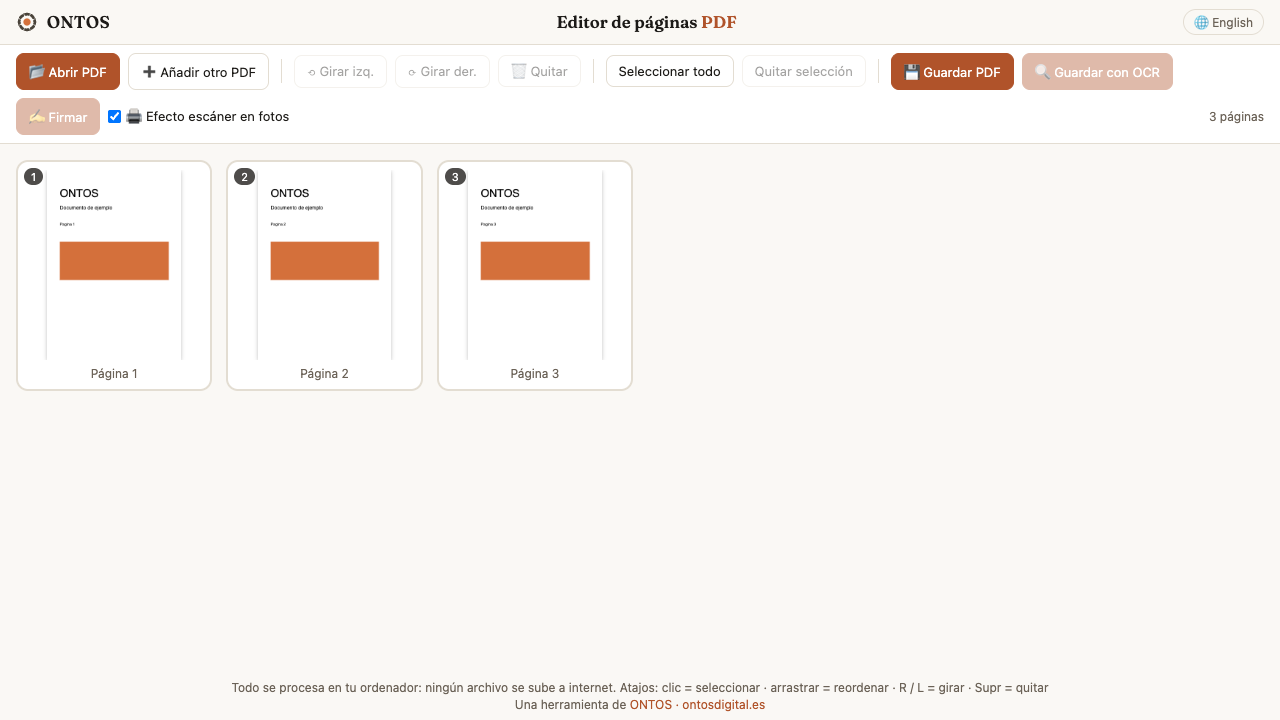
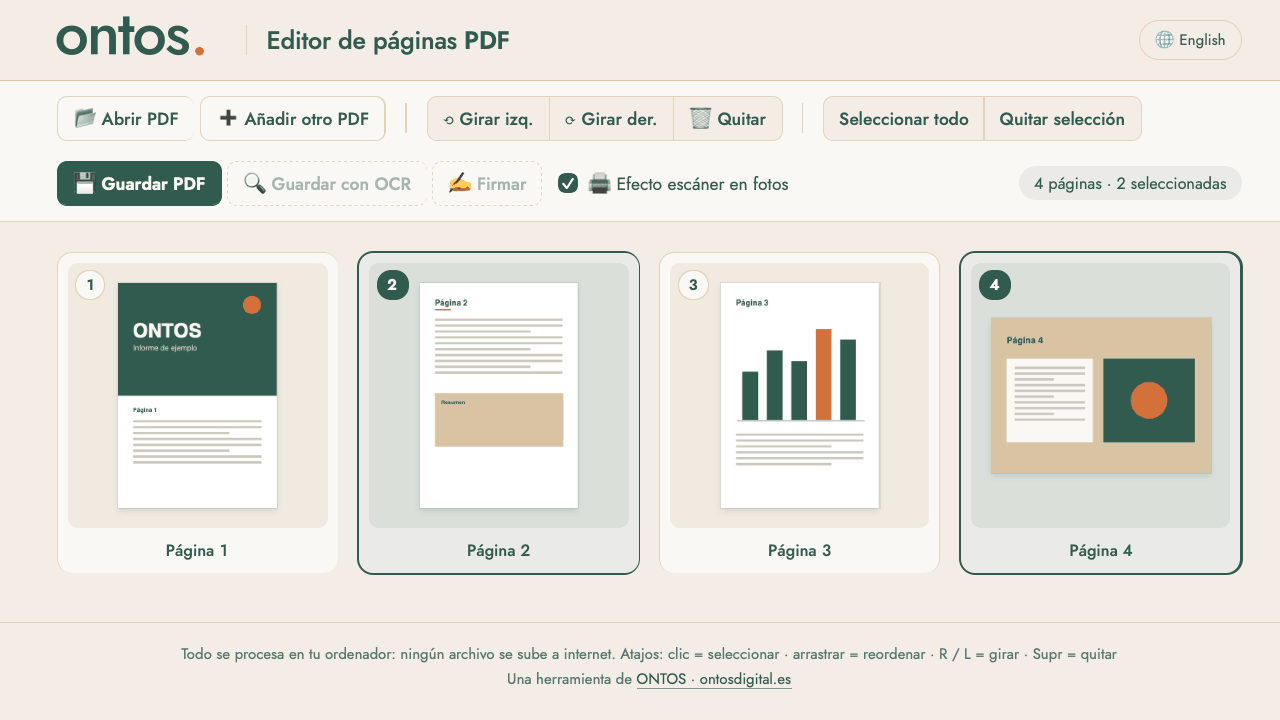
feat: editor PDF más cuidado — cabecera de aplicación, barra agrupada con acción principal, páginas con aire, móvil usable; captura nueva de la tarjeta

diff --git a/editor-pdf/index.html b/editor-pdf/index.html
@@ -44,7 +44,6 @@
     background: var(--panel); border-bottom: 1px solid var(--border);
     padding: 8px 16px; display: flex; align-items: center; gap: 8px; flex-wrap: wrap;
   }
-  .sep { width: 1px; height: 24px; background: var(--border); margin: 0 4px; }
   button {
     font: inherit; font-size: 13px; padding: 7px 12px; border-radius: 8px;
     border: 1px solid var(--border); background: var(--panel); color: var(--text);
@@ -156,10 +155,8 @@
     #signSide input[type=text], #signSide select { font-size: 16px; }
     button { min-height: 44px; }
   }
-  @media (prefers-color-scheme: dark) {
-    button.primary { color: #181410; }
-    button.primary:hover:not(:disabled) { background: var(--realce); border-color: var(--realce); }
-  }
+  /* Sin bloque oscuro propio: marca-es.css fija la superficie clara del manual en ambos
+     esquemas, y el texto oscuro sobre el verde de acción dejaba el botón ilegible. */
   .pie-marca { margin-top: 2px; }
   .pie-marca a { color: var(--accent); text-decoration: none; }
   .pie-marca a:hover { text-decoration: underline; }
@@ -170,6 +167,147 @@
 <script defer src="../brand/canon/movimiento-data.js"></script>
 <script defer src="../brand/canon/movimiento.js"></script>
 <!-- /MARCA:estilos -->
+<style>
+  /* Pulido de la interfaz (3-oct-2026): va después de marca-es.css para ganarle en cascada sin
+     !important. Solo tokens del canon: verde de acción, arena de línea, hueso de panel; la teja
+     queda en el símbolo. Jerarquía: una acción principal (Abrir sin documento, Guardar con él),
+     secundarias agrupadas, versión de escritorio deshabilitada pero legible. */
+  html[data-ontos-web][data-web-page="editor-pdf"] {
+    --ep-linea: color-mix(in srgb, var(--ds-brand-arena) 70%, var(--ds-support-hueso));
+    --ep-mesa: color-mix(in srgb, var(--ds-brand-arena) 26%, var(--ds-support-hueso));
+    --ep-tinte: color-mix(in srgb, var(--ds-brand-verde) 8%, var(--ds-support-hueso));
+    --ep-suave: color-mix(in srgb, var(--ds-brand-verde) 62%, var(--ds-support-hueso));
+  }
+  /* Cabecera: título de herramienta a escala de aplicación, junto a la marca. */
+  #top .barra .marca { margin-right: 0; }
+  #top .titulo-app {
+    font-size: var(--ds-type-h2); line-height: 1.2; font-weight: 500; letter-spacing: -.01em;
+    margin: 0 auto 0 0; padding-left: var(--ds-space-4);
+    border-left: 1px solid var(--ep-linea); white-space: nowrap;
+  }
+  #top .titulo-app span { font-weight: 600; }
+  #top #btnLang { margin-left: 0; min-height: 32px; padding: 0 var(--ds-space-3); border-color: var(--ep-linea); color: var(--texto); }
+
+  /* Barra de herramientas */
+  #top #toolbar {
+    gap: var(--ds-space-2) var(--ds-space-3); padding-top: var(--ds-space-3); padding-bottom: var(--ds-space-3);
+    background: var(--ds-support-hueso); border-bottom: 1px solid var(--ep-linea);
+  }
+  /* Grupos sin envoltorio (el test de conservación compara la estructura): los separadores
+     marcan el corte y girar/quitar y seleccionar se pegan como controles segmentados. */
+  #toolbar .sep { width: 1px; height: 24px; margin: 0 var(--ds-space-1); background: var(--ep-linea); }
+  #toolbar :is(#btnAdd, #btnRotR, #btnDel, #btnNone, #btnSaveOcr, #btnSign) { margin-left: calc(var(--ds-space-1) - var(--ds-space-3)); }
+  #toolbar :is(#btnRotR, #btnDel, #btnNone) { margin-left: calc(-1px - var(--ds-space-3)); }
+  /* Hasta 1500 px, guardar abre segunda fila con la opción de escáner y el estado: así la
+     fila no se parte a mitad de grupo. */
+  @media (max-width: 1500px) { #toolbar div.sep:nth-of-type(3) { flex-basis: 100%; height: 0; margin: 0; } }
+  #toolbar button {
+    min-height: 36px; padding: 0 var(--ds-space-3); font-size: 14px; font-weight: 500; line-height: 1;
+    border: 1px solid var(--ep-linea); border-radius: var(--ds-radius-s);
+    background: var(--ds-support-hueso); color: var(--ds-brand-verde);
+    transition: background-color var(--web-motion-fast), border-color var(--web-motion-fast), color var(--web-motion-fast);
+  }
+  #toolbar :is(#btnRotL, #btnRotR, #btnDel, #btnAll, #btnNone) { background: var(--ds-surface-page); border-radius: 0; }
+  #toolbar :is(#btnRotL, #btnAll) { border-radius: var(--ds-radius-s) 0 0 var(--ds-radius-s); }
+  #toolbar :is(#btnDel, #btnNone) { border-radius: 0 var(--ds-radius-s) var(--ds-radius-s) 0; }
+  #toolbar :is(#btnRotL, #btnRotR, #btnDel, #btnAll, #btnNone):focus-visible { position: relative; z-index: 1; }
+  #toolbar button:hover:not(:disabled) { background: var(--ep-tinte); border-color: var(--ep-suave); }
+  #toolbar button:disabled { opacity: 1; color: color-mix(in srgb, var(--ds-brand-verde) 42%, var(--ds-support-hueso)); cursor: not-allowed; }
+  #toolbar #btnDel:hover:not(:disabled) { color: var(--ds-brand-rojo); background: color-mix(in srgb, var(--ds-brand-rojo) 8%, var(--ds-support-hueso)); }
+  /* Acción principal: verde lleno. Sin documento manda Abrir; con documento, Guardar. */
+  #toolbar :is(#btnOpen, #btnSave:not(:disabled)) {
+    background: var(--ds-action); border-color: var(--ds-action); color: var(--ds-on-action); font-weight: 600; box-shadow: none;
+  }
+  #toolbar :is(#btnOpen, #btnSave:not(:disabled)):hover { background: color-mix(in srgb, var(--ds-action) 86%, var(--ds-web-technical-black)); border-color: transparent; color: var(--ds-on-action); box-shadow: none; }
+  #toolbar:has(#btnSave:not(:disabled)) #btnOpen { background: var(--ds-support-hueso); border-color: var(--ep-linea); color: var(--ds-brand-verde); font-weight: 500; }
+  #toolbar:has(#btnSave:not(:disabled)) #btnOpen:hover { background: var(--ep-tinte); border-color: var(--ep-suave); color: var(--ds-brand-verde); }
+  #toolbar #btnSave:disabled { background: transparent; }
+  /* OCR y firma son de la versión de escritorio: discretos, con su explicación en el title. */
+  #toolbar button.escritorio:disabled { background: transparent; border-style: dashed; cursor: help; }
+  #toolbar .opcion-escaner {
+    display: inline-flex; align-items: center; gap: var(--ds-space-2); min-height: 36px;
+    font-size: 14px; color: var(--ds-brand-verde); cursor: pointer;
+  }
+  #toolbar .opcion-escaner input { width: 16px; height: 16px; accent-color: var(--ds-brand-verde); }
+  #top #status { font-size: 13px; color: var(--ds-brand-verde); font-variant-numeric: tabular-nums; }
+  #top #status:not(:empty) { padding: 4px var(--ds-space-3); border-radius: 999px; background: var(--ep-tinte); }
+
+  /* Área de trabajo */
+  main#contenido { padding: var(--ds-space-5) 0 var(--ds-space-6); }
+  main#contenido:focus { outline: none; }
+  #dropzone {
+    min-height: clamp(320px, 58vh, 600px); gap: var(--ds-space-3); padding: var(--ds-space-7) var(--ds-space-5);
+    border: 1.5px dashed var(--ep-suave); border-radius: var(--ds-radius); background: var(--ds-support-hueso);
+    color: var(--ds-brand-verde); transition: background-color var(--web-motion-fast), border-color var(--web-motion-fast);
+  }
+  #dropzone:hover, #dropzone.over { border-color: var(--ds-brand-verde); background: var(--ep-tinte); }
+  #dropzone.over { border-style: solid; outline: none; }
+  #dropzone > span[aria-hidden="true"] { margin-bottom: var(--ds-space-2); }
+  #dropzone strong { font-size: var(--ds-type-h2); font-weight: 600; letter-spacing: -.01em; color: var(--ds-brand-verde); }
+  #dropzone strong + span { max-width: 68ch; font-size: var(--ds-type-body); line-height: 1.65; color: color-mix(in srgb, var(--ds-brand-verde) 82%, var(--ds-support-hueso)); }
+  body.dragging #grid { outline: 2px dashed var(--ds-brand-verde); outline-offset: 6px; border-radius: var(--ds-radius); }
+
+  /* Miniaturas: la página sobre una mesa arena, número en pastilla, selección en verde. */
+  #grid { grid-template-columns: repeat(auto-fill, minmax(188px, 1fr)); gap: var(--ds-space-5) var(--ds-space-4); }
+  #grid .card {
+    padding: var(--ds-space-2); border: 1px solid var(--ep-linea); border-radius: var(--ds-radius);
+    background: var(--ds-support-hueso); box-shadow: none;
+    transition: border-color var(--web-motion-fast), box-shadow var(--web-motion-fast), background-color var(--web-motion-fast);
+  }
+  #grid .card:hover { border-color: var(--ep-suave); }
+  #grid .thumb-box { height: 212px; padding: var(--ds-space-4); border-radius: var(--ds-radius-s); background: var(--ep-mesa); }
+  #grid .thumb-box canvas { box-shadow: 0 0 0 1px color-mix(in srgb, var(--ds-brand-verde) 10%, transparent), 0 2px 6px color-mix(in srgb, var(--ds-brand-verde) 16%, transparent); }
+  #grid .card.selected { border-color: var(--ds-brand-verde); box-shadow: 0 0 0 1px var(--ds-brand-verde); background: var(--ep-tinte); }
+  #grid .card.selected .thumb-box { background: color-mix(in srgb, var(--ds-brand-verde) 16%, var(--ds-support-hueso)); }
+  #grid .card.drag-over-left { box-shadow: -5px 0 0 0 var(--ds-brand-verde); }
+  #grid .card.drag-over-right { box-shadow: 5px 0 0 0 var(--ds-brand-verde); }
+  #grid .card .label { margin-top: var(--ds-space-2); font-size: 13px; font-weight: 500; color: var(--ds-brand-verde); font-variant-numeric: tabular-nums; }
+  #grid .card .badge {
+    top: 14px; left: 14px; min-width: 24px; padding: 2px 8px; text-align: center;
+    font-size: 12px; font-weight: 600; line-height: 18px; border-radius: 999px;
+    background: var(--ds-support-hueso); color: var(--ds-brand-verde); border: 1px solid var(--ep-linea);
+  }
+  #grid .card.selected .badge { background: var(--ds-brand-verde); border-color: var(--ds-brand-verde); color: var(--ds-on-action); }
+  #grid .card .mini { top: 12px; right: 12px; gap: 2px; padding: 2px; border: 1px solid var(--ep-linea); border-radius: var(--ds-radius-s); background: var(--ds-support-hueso); }
+  #grid .mini button { min-width: 28px; min-height: 28px; padding: 0 6px; justify-content: center; border: 0; border-radius: 6px; background: transparent; color: var(--ds-brand-verde); }
+  #grid .mini button:hover:not(:disabled) { background: var(--ep-tinte); }
+  #grid .mini button:disabled { color: color-mix(in srgb, var(--ds-brand-verde) 30%, var(--ds-support-hueso)); }
+  #grid .thumb-box[role="button"]:focus-visible { outline: 3px solid var(--ds-action); outline-offset: 3px; }
+  #grid .mini button:focus-visible { outline: 2px solid var(--ds-action); outline-offset: 1px; }
+  /* Sin ratón, la página seleccionada enseña sus mandos (girar, mover, quitar). */
+  @media (hover: none) { #grid .card.selected .mini { display: flex; } }
+
+  footer { padding-top: var(--ds-space-4); padding-bottom: var(--ds-space-5); border-top: 1px solid var(--ep-linea); color: color-mix(in srgb, var(--ds-brand-verde) 82%, var(--ds-support-hueso)); }
+  .pie-marca a { color: var(--ds-brand-verde); text-decoration: underline; text-decoration-color: var(--ep-suave); text-underline-offset: 3px; }
+
+  @media (max-width: 700px) {
+    #top { position: static; }
+    #top .titulo-app { font-size: var(--ds-type-h3); }
+    #top #toolbar { gap: var(--ds-space-2); padding: var(--ds-space-3) var(--ds-space-4); }
+    /* En móvil cada separador corta la fila: un grupo por fila, botones a todo el ancho. */
+    #toolbar .sep { flex-basis: 100%; height: 0; margin: 0; background: none; }
+    #toolbar button { flex: 1 1 auto; justify-content: center; font-size: 13.5px; padding: 0 var(--ds-space-2); }
+    #toolbar :is(#btnAdd, #btnSaveOcr, #btnSign) { margin-left: 0; }
+    #toolbar :is(#btnRotR, #btnDel, #btnNone) { margin-left: calc(-1px - var(--ds-space-2)); }
+    #toolbar button, #toolbar .opcion-escaner { min-height: 44px; }
+    #top #status { margin-left: 0; }
+    main#contenido { padding: var(--ds-space-4) 0; }
+    #dropzone { min-height: 300px; padding: var(--ds-space-6) var(--ds-space-4); }
+    #grid { grid-template-columns: repeat(2, minmax(0, 1fr)); gap: var(--ds-space-3); }
+    #grid .thumb-box { height: 168px; padding: var(--ds-space-3); }
+    #grid .card .badge { top: 12px; left: 12px; }
+    #grid .card .mini { left: 12px; right: 12px; top: auto; bottom: 36px; max-width: none; flex-wrap: nowrap; }
+    #grid .mini button { min-height: 36px; min-width: 0; padding: 0; flex: 1 1 0; }
+    footer { padding-top: var(--ds-space-4); padding-bottom: var(--ds-space-4); }
+  }
+  @media (max-width: 34rem) {
+    #top .barra nav { flex-wrap: wrap; }
+    #top .titulo-app { order: 3; flex-basis: 100%; padding: 0 0 var(--ds-space-2); border: 0; }
+  }
+  @media (prefers-reduced-motion: reduce) {
+    #toolbar button, #dropzone, #grid .card { transition: none; }
+  }
+</style>
 </head>
 <body>
 <a class="skip-link" href="#contenido" data-i18n="skipContent">Saltar al contenido</a>
@@ -193,9 +331,9 @@
   <button id="btnNone" disabled data-i18n="selNone">Quitar selección</button>
   <div class="sep"></div>
   <button id="btnSave" class="primary" disabled data-i18n="save">💾 Guardar PDF</button>
-  <button id="btnSaveOcr" class="primary" disabled data-i18n="saveOcr">🔍 Guardar con OCR</button>
-  <button id="btnSign" class="primary" disabled data-i18n="sign">✍ Firmar</button>
-  <label style="display:inline-flex;align-items:center;gap:5px;font-size:13px;cursor:pointer" data-i18n-title="scanT">
+  <button id="btnSaveOcr" class="escritorio" disabled data-i18n="saveOcr">🔍 Guardar con OCR</button>
+  <button id="btnSign" class="escritorio" disabled data-i18n="sign">✍ Firmar</button>
+  <label class="opcion-escaner" data-i18n-title="scanT">
     <input type="checkbox" id="chkScan" checked> <span data-i18n="scan">🖨 Efecto escáner en fotos</span>
   </label>
   <span id="status" role="status" aria-live="polite"></span>
